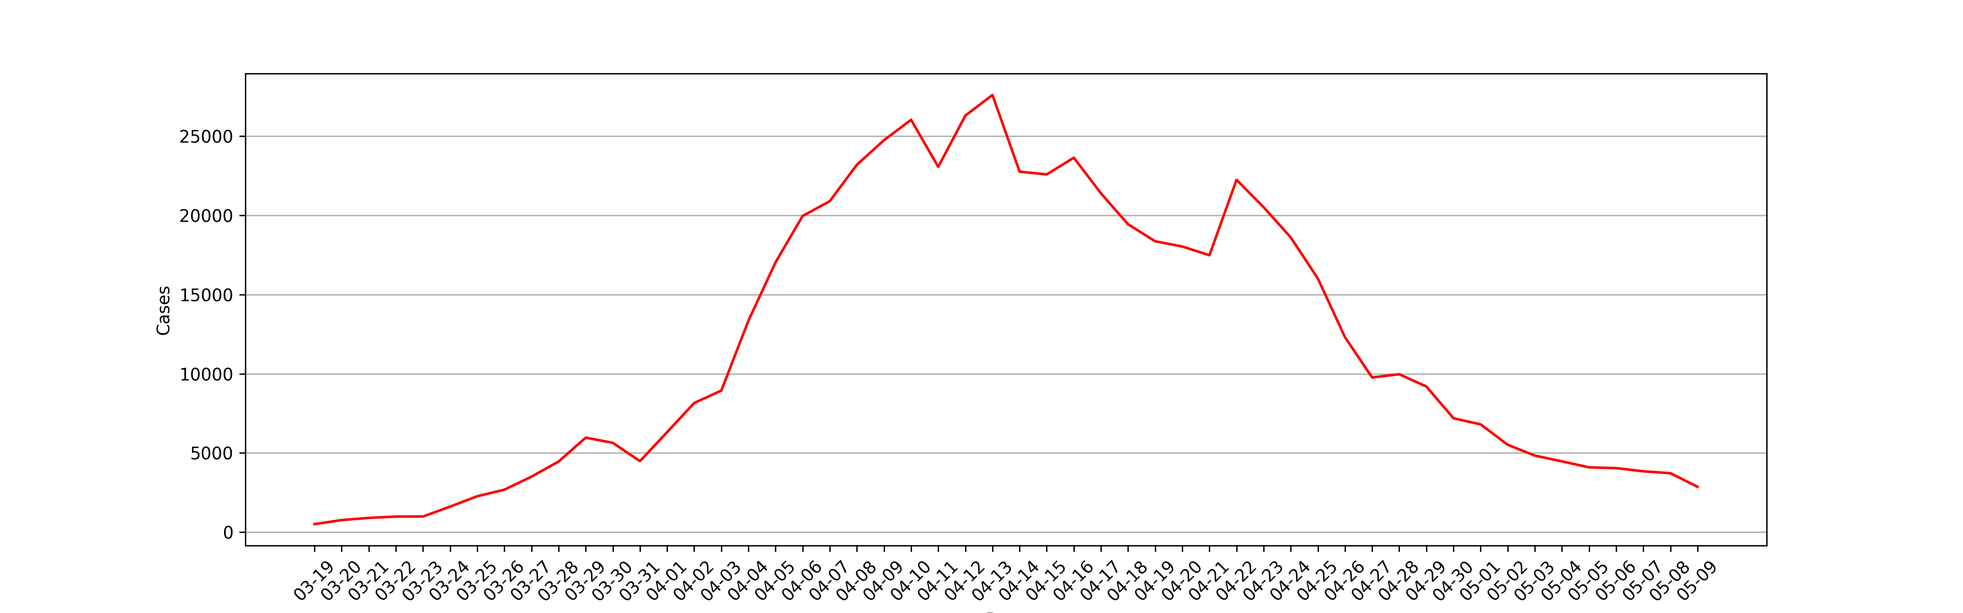
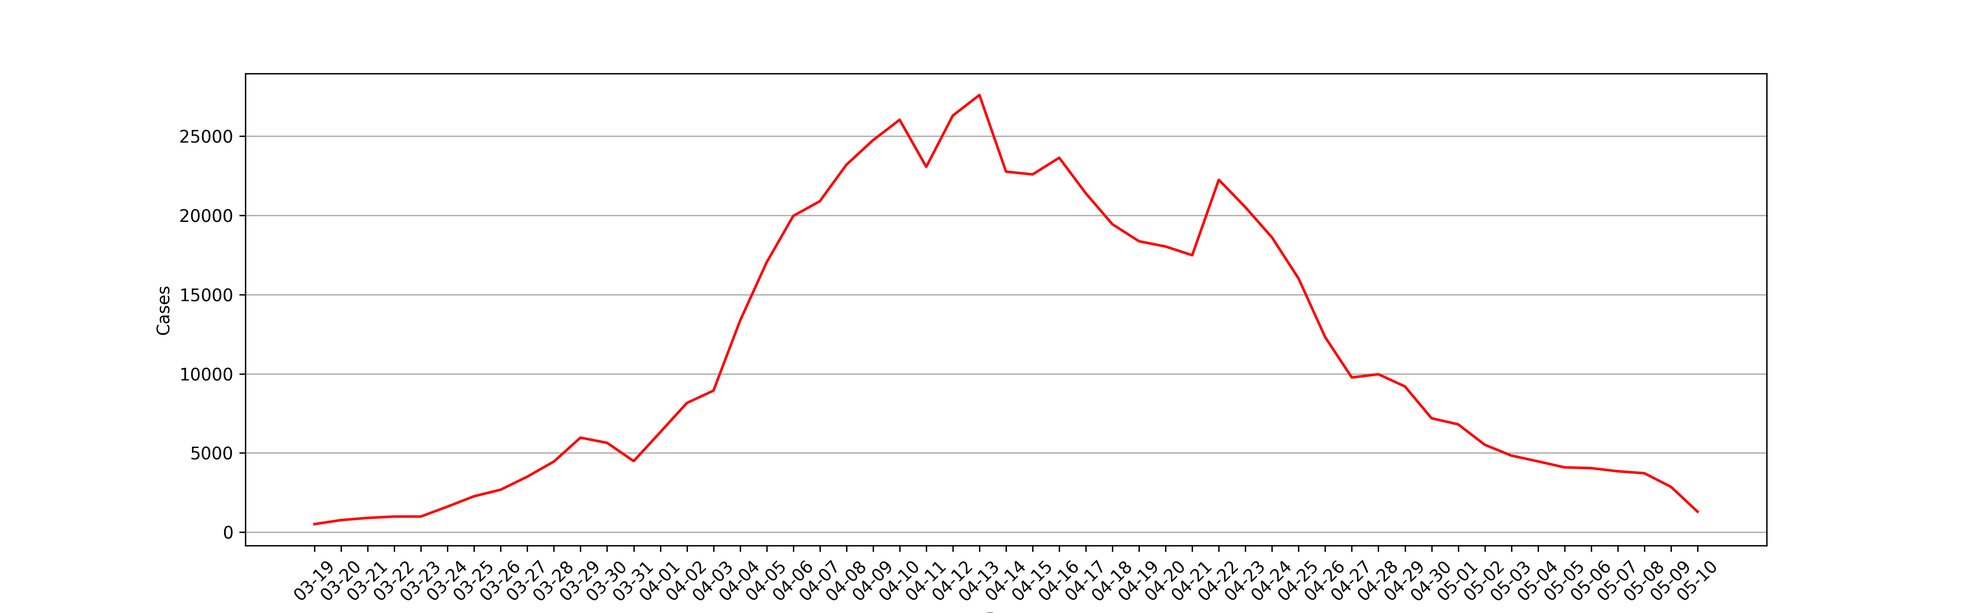
Commit by bot @ 05/11/22 11:15:01

diff --git a/archived_html/15db247133abb2464769780a3f70e335.html b/archived_html/15db247133abb2464769780a3f70e335.html
@@ -1,0 +1,151 @@
+<!DOCTYPE html>
+<html lang="zh-Hans">
+<head>
+    <meta charset="utf-8">
+    <meta http-equiv="Content-Security-Policy" content="upgrade-insecure-requests">
+    <meta name="viewport" content="width=device-width, initial-scale=1, maximum-scale=1, user-scalable=no">
+    <meta http-equiv="X-UA-Compatible" content="IE=Edge,chrome=1">
+    <meta http-equiv="Cache-Control" content="no-siteapp" />
+    <meta name="renderer" content="webkit">
+    <meta name="apple-mobile-web-app-capable" content="yes" />
+    <meta name="apple-mobile-web-app-status-bar-style" content="black" />
+    <title>上海2022年5月10日，新增本土新冠肺炎确诊病例228例 新增本土无症状感染者1259例 新增境外输入性新冠肺炎确诊病例1例 新增境外输入性无症状感染者1例__上海市卫生健康委员会</title>
+    <meta name="ColumnDescription" content="新闻发布"><!-- * -->
+    <meta name="ColumnKeywords" content="新闻发布"><!-- * -->
+    <!--<meta name="ColumnType" content=""> * -->
+    <meta name="ColumnName" content="新闻发布"><!-- * -->
+    <meta name="ArticleTitle" content="上海2022年5月10日，新增本土新冠肺炎确诊病例228例 新增本土无症状感染者1259例 新增境外输入性新冠肺炎确诊病例1例 新增境外输入性无症状感染者1例"><!-- * -->
+    <meta name="PubDate" content="2022-05-11"><!-- * -->
+    <meta name="ContentSource" content="上海市卫生健康委员会"><!-- * -->
+    <meta name="Author" content="上海市卫生健康委员会">
+    <meta name="Description" content="" />
+    <meta name="applicable-device" content="pc;mobile">
+    <meta name="location" content="北纬N31°11′51.89″ 东经E121°30′5.42″">
+    <!-- min CSS -->
+    <link rel="stylesheet" href="/assets/css/ETUI/ETUI3.min.css">
+    <!-- Custom CSS -->
+    <link rel="stylesheet" href="/assets/plugin/owl/owl.carousel.css">
+    <link rel="stylesheet" href="/assets/css/style.css">
+    <link rel="stylesheet" href="/assets/css/responsive.css">
+    <link rel="stylesheet" href="/assets/css/ETUI/ETUI3.Utility.css">
+    <!-- icons -->
+    <link rel="shortcut icon" href="/assets/img/ico/favicon.png">
+    <!-- 无障碍工具条 -->
+   <!-- <link rel="stylesheet" href="http://www.shanghai.gov.cn/jhelper_V2.0/jhelper_tool_style.css">
+    <script src="http://www.shanghai.gov.cn/jhelper_V2.0/wsj/jhelper_config.js" charset="gb2312"></script>
+    <noscript>不能读取工具条配置</noscript>
+    <script src="http://www.shanghai.gov.cn/jhelper_V2.0/jhelper_2.0.js" charset="gb2312"></script>
+    <noscript>不能读取工具条</noscript> 
+     -->
+    <script type="text/javascript">
+        function onsubmmit(pageIndex){
+            $("#pageIndex").val(1);
+            $("#searchField").val("0");
+            $("#timeScope").val("0");
+            $("#cmsSearchId").val("0");
+            $("#searchForm").submit();
+        }
+        function onselsubmmit(){
+            $("#pageIndex").val(1);
+            $("#searchForm").submit();
+        }
+        function psubmmit(pageIndex){
+            $("#pageIndex").val(pageIndex);
+            $("#searchForm").submit();
+        }
+        // 栏目
+        function chsubmmit(searchChId){
+            $("#pageIndex").val(1);
+            $("#searchField").val("0");
+            $("#timeScope").val("0");
+            $("#cmsSearchId").val(searchChId);
+            $("#searchForm").submit();
+        }
+    </script> 
+    <!-- 无障碍工具条 -->
+</head>
+<body>
+    <div id="accessNull"></div>
+    <div id="container">
+        <div class="channelinfo hidden"></div>
+        <script src="/assets/js/header.js"></script>
+        <div class="main" id="main">
+            <script src="/assets/js/jiansuo.js"></script>
+            <div class="main-container margin-top-15">
+                <div class="container ">
+                    <div class="relitive">
+                        <ol class="breadcrumb">
+                           <span>您现在所在的位置：</span>
+                            <li><a href="/index.html">首页</a></li>
+                            <li class="active">新闻中心</li>
+                           
+                            <li class="active">新闻发布</li>
+                           
+                        </ol>
+                        <div class="date-se">
+                            <i class="iconfont">&#xe60b;</i> <span id="time"></span>
+                        </div>
+                    </div>
+
+                    <div class="Article">
+                        <h2 id="ivs_title" class="Article-title">上海2022年5月10日，新增本土新冠肺炎确诊病例228例 新增本土无症状感染者1259例 新增境外输入性新冠肺炎确诊病例1例 新增境外输入性无症状感染者1例</br>
+                         <h2 class="Article-title">
+                            <small id="ivs_date" class="Article-time">( 2022-05-11)</small>
+                        </h2>
+                        <div id="ivs_player" style="text-align:center;"></div>
+                        <div id="ivs_content" class="Article_content">
+                           
+                                 <p style="font-size: medium;white-space: normal;margin-top: 10px;text-indent: 40px"><span style="font-size: 20px;font-family: 仿宋_GB2312">市卫健委今早（11日）通报：2022年5月10日0—24时，新增本土新冠肺炎确诊病例228例和无症状感染者1259例，其中198例确诊病例为既往无症状感染者转归，30例确诊病例和1259例无症状感染者在隔离管控中发现。新增境外输入性新冠肺炎确诊病例1例和无症状感染者1例，均在闭环管控中发现。</span></p><p style="font-size: medium;white-space: normal;margin-top: 10px;text-indent: 40px"><span style="font-size: 20px;font-family: 仿宋_GB2312">2022</span><span style="font-size: 20px;font-family: 仿宋_GB2312">年5月10日0—24时，新增本土新冠肺炎确诊病例228例，含198例由既往无症状感染者转为确诊病例。新增治愈出院607例。</span></p><p style="font-size: medium;white-space: normal;margin-top: 10px;text-indent: 40px"><strong><span style="font-size: 20px;font-family: 黑体">病例1—病例3</span></strong><span style="font-size: 20px;font-family: 仿宋_GB2312">，居住于浦东新区，</span><strong><span style="font-size: 20px;font-family: 黑体">病例4—病例6</span></strong><span style="font-size: 20px;font-family: 仿宋_GB2312">，居住于黄浦区，</span><strong><span style="font-size: 20px;font-family: 黑体">病例7、病例8</span></strong><span style="font-size: 20px;font-family: 仿宋_GB2312">，居住于徐汇区，</span><strong><span style="font-size: 20px;font-family: 黑体">病例9—病例13</span></strong><span style="font-size: 20px;font-family: 仿宋_GB2312">，居住于静安区，</span><strong><span style="font-size: 20px;font-family: 黑体">病例14—病例25</span></strong><span style="font-size: 20px;font-family: 仿宋_GB2312">，居住于虹口区，</span><strong><span style="font-size: 20px;font-family: 黑体">病例26</span></strong><span style="font-size: 20px;font-family: 仿宋_GB2312">，居住于杨浦区，</span><strong><span style="font-size: 20px;font-family: 黑体">病例27</span></strong><span style="font-size: 20px;font-family: 仿宋_GB2312">，居住于宝山区，</span><strong><span style="font-size: 20px;font-family: 黑体">病例28</span></strong><span style="font-size: 20px;font-family: 仿宋_GB2312">，居住于嘉定区，</span><strong><span style="font-size: 20px;font-family: 黑体">病例29、病例30</span></strong><span style="font-size: 20px;font-family: 仿宋_GB2312">，居住于松江区，均为本市闭环隔离管控人员，其间新冠病毒核酸检测结果异常，经疾控中心复核结果为阳性。经市级专家会诊，综合流行病学史、临床症状、实验室检测和影像学检查结果等，诊断为确诊病例。</span></p><p style="font-size: medium;white-space: normal;margin-top: 10px;text-indent: 40px"><strong><span style="font-size: 20px;font-family: 黑体">病例31—病例43</span></strong><span style="font-size: 20px;font-family: 仿宋_GB2312">，居住于浦东新区，</span><strong><span style="font-size: 20px;font-family: 黑体">病例44—病例59</span></strong><span style="font-size: 20px;font-family: 仿宋_GB2312">，居住于黄浦区，</span><strong><span style="font-size: 20px;font-family: 黑体">病例60—病例80</span></strong><span style="font-size: 20px;font-family: 仿宋_GB2312">，居住于徐汇区，</span><strong><span style="font-size: 20px;font-family: 黑体">病例81、病例82</span></strong><span style="font-size: 20px;font-family: 仿宋_GB2312">，居住于长宁区，</span><strong><span style="font-size: 20px;font-family: 黑体">病例83—病例105</span></strong><span style="font-size: 20px;font-family: 仿宋_GB2312">，居住于静安区，</span><strong><span style="font-size: 20px;font-family: 黑体">病例106—病例110</span></strong><span style="font-size: 20px;font-family: 仿宋_GB2312">，居住于普陀区，</span><strong><span style="font-size: 20px;font-family: 黑体">病例111—病例146</span></strong><span style="font-size: 20px;font-family: 仿宋_GB2312">，居住于虹口区，</span><strong><span style="font-size: 20px;font-family: 黑体">病例147—病例177</span></strong><span style="font-size: 20px;font-family: 仿宋_GB2312">，居住于杨浦区，</span><strong><span style="font-size: 20px;font-family: 黑体">病例178—病例184</span></strong><span style="font-size: 20px;font-family: 仿宋_GB2312">，居住于闵行区，</span><strong><span style="font-size: 20px;font-family: 黑体">病例185—病例194</span></strong><span style="font-size: 20px;font-family: 仿宋_GB2312">，居住于宝山区，</span><strong><span style="font-size: 20px;font-family: 黑体">病例195—病例213</span></strong><span style="font-size: 20px;font-family: 仿宋_GB2312">，居住于嘉定区，</span><strong><span style="font-size: 20px;font-family: 黑体">病例214—病例217</span></strong><span style="font-size: 20px;font-family: 仿宋_GB2312">，居住于松江区，</span><strong><span style="font-size: 20px;font-family: 黑体">病例218—病例228</span></strong><span style="font-size: 20px;font-family: 仿宋_GB2312">，居住于青浦区，</span><span style="font-size: 20px;font-family: 仿宋_GB2312">为此前报告的本土无症状感染者。</span><span style="font-size: 20px;font-family: 仿宋_GB2312">经市级专家会诊，综合流行病学史、临床症状、实验室检测和影像学检查结果等，诊断为确诊病例。</span></p><p style="font-size: medium;white-space: normal;margin-top: 10px;text-indent: 40px"><span style="font-size: 20px;font-family: 仿宋_GB2312">2022</span><span style="font-size: 20px;font-family: 仿宋_GB2312">年5月10日0—24时，新增本土死亡7例。平均年龄87.3岁，最小年龄75岁，最大年龄98岁。7位患者合并有严重的多脏器基础疾病，包括冠心病、急慢性心功能不全、严重心律失常、高血压3级（极高危）、脑梗死及后遗症、阿尔兹海默症、糖尿病、急性肝功能衰竭、急慢性肾功能不全等。患者入院后，原发疾病加重，经抢救无效死亡。死亡的直接原因均为基础疾病。</span></p><p style="font-size: medium;white-space: normal;margin-top: 10px;text-indent: 40px"><span style="font-size: 20px;font-family: 仿宋_GB2312">2022</span><span style="font-size: 20px;font-family: 仿宋_GB2312">年5月10日0—24时，新增本土无症状感染者1259例。</span></p><p style="font-size: medium;white-space: normal;margin-top: 10px;text-indent: 40px"><strong><span style="font-size: 20px;font-family: 黑体">无症状感染者1—无症状感染者247</span></strong><span style="font-size: 20px;font-family: 仿宋_GB2312">，居住于浦东新区，</span><strong><span style="font-size: 20px;font-family: 黑体">无症状感染者248—无症状感染者492</span></strong><span style="font-size: 20px;font-family: 仿宋_GB2312">，居住于黄浦区，</span><strong><span style="font-size: 20px;font-family: 黑体">无症状感染者493—无症状感染者552</span></strong><span style="font-size: 20px;font-family: 仿宋_GB2312">，居住于徐汇区，</span><strong><span style="font-size: 20px;font-family: 黑体">无症状感染者553—无症状感染者566</span></strong><span style="font-size: 20px;font-family: 仿宋_GB2312">，居住于长宁区，</span><strong><span style="font-size: 20px;font-family: 黑体">无症状感染者567—无症状感染者757</span></strong><span style="font-size: 20px;font-family: 仿宋_GB2312">，居住于静安区，</span><strong><span style="font-size: 20px;font-family: 黑体">无症状感染者758—无症状感染者782</span></strong><span style="font-size: 20px;font-family: 仿宋_GB2312">，居住于普陀区，</span><strong><span style="font-size: 20px;font-family: 黑体">无症状感染者783—无症状感染者870</span></strong><span style="font-size: 20px;font-family: 仿宋_GB2312">，居住于虹口区，</span><strong><span style="font-size: 20px;font-family: 黑体">无症状感染者871—无症状感染者1005</span></strong><span style="font-size: 20px;font-family: 仿宋_GB2312">，居住于杨浦区，</span><strong><span style="font-size: 20px;font-family: 黑体">无症状感染者1006—无症状感染者1077</span></strong><span style="font-size: 20px;font-family: 仿宋_GB2312">，居住于闵行区，</span><strong><span style="font-size: 20px;font-family: 黑体">无症状感染者1078—无症状感染者1208</span></strong><span style="font-size: 20px;font-family: 仿宋_GB2312">，居住于宝山区，</span><strong><span style="font-size: 20px;font-family: 黑体">无症状感染者1209—无症状感染者1222</span></strong><span style="font-size: 20px;font-family: 仿宋_GB2312">，居住于嘉定区，</span><strong><span style="font-size: 20px;font-family: 黑体">无症状感染者1223—无症状感染者1235</span></strong><span style="font-size: 20px;font-family: 仿宋_GB2312">，居住于松江区，</span><strong><span style="font-size: 20px;font-family: 黑体">无症状感染者1236—无症状感染者1251</span></strong><span style="font-size: 20px;font-family: 仿宋_GB2312">，居住于青浦区，</span><strong><span style="font-size: 20px;font-family: 黑体">无症状感染者1252—无症状感染者1259</span></strong><span style="font-size: 20px;font-family: 仿宋_GB2312">，居住于崇明区，</span><span style="font-size: 20px;font-family: 仿宋_GB2312">均为本市闭环隔离管控人员，其间新冠病毒核酸检测结果异常，经疾控中心复核结果为阳性，诊断为无症状感染者。</span></p><p style="font-size: medium;white-space: normal;text-indent: 40px"><span style="font-size: 20px;font-family: 仿宋_GB2312">2022</span><span style="font-size: 20px;font-family: 仿宋_GB2312">年5月10日0—24时，</span><span style="font-size: 20px;font-family: 仿宋_GB2312">新增境外输入性新冠肺炎确诊病例</span><span style="font-size: 20px;font-family: 仿宋_GB2312">1</span><span style="font-size: 20px;font-family: 仿宋_GB2312">例</span><span style="font-size: 20px;font-family: 仿宋_GB2312">。</span></p><p style="font-size: medium;white-space: normal;text-indent: 40px"><strong><span style="font-size: 20px;font-family: 黑体">该病例</span></strong><span style="font-size: 20px;font-family: 仿宋_GB2312">为中国籍，在美国留学，自美国出发，于2022年5月8日抵达上海浦东国际机场，入关后即被集中隔离观察，其间出现症状。综合流行病学史、临床症状、实验室检测和影像学检查结果等，诊断为确诊病例。</span></p><p style="font-size: medium;white-space: normal;text-indent: 40px"><span style="font-size: 20px;font-family: 仿宋_GB2312">该境外输入性确诊病例已转至定点医疗机构救治，已追踪同航班密切接触者31人，均已落实集中隔离观察。</span></p><p style="font-size: medium;white-space: normal;text-indent: 40px"><span style="font-size: 20px;font-family: 仿宋_GB2312">2022</span><span style="font-size: 20px;font-family: 仿宋_GB2312">年5月10日0—24时，新增境外输入性无症状感染者1例。</span></p><p style="font-size: medium;white-space: normal;text-indent: 40px"><strong><span style="font-size: 20px;font-family: 黑体">该无症状感染者</span></strong><span style="font-size: 20px;font-family: 仿宋_GB2312">为中国籍，在阿联酋工作，自阿联酋出发，于2022年5月2日抵达上海浦东国际机场，入关后即被集中隔离观察，其间例行核酸检测异常。经排查，区疾控中心新冠病毒核酸检测结果为阳性。综合流行病学史、临床症状、实验室检测和影像学检查结果等，诊断为无症状感染者。</span></p><p style="font-size: medium;white-space: normal;text-indent: 40px"><span style="font-size: 20px;font-family: 仿宋_GB2312">该境外输入性无症状感染者已转至定点医疗机构医学观察，同航班密切接触者此前均已落实集中隔离观察。</span></p><p style="font-size: medium;white-space: normal;text-indent: 40px"><span style="font-size: 20px;font-family: 仿宋_GB2312">2022</span><span style="font-size: 20px;font-family: 仿宋_GB2312">年5月10日0—24时，解除医学观察本土无症状感染者8094例。</span></p><p style="font-size: medium;white-space: normal;margin-top: 10px;text-indent: 40px;vertical-align: baseline"><span style="font-size: 20px;font-family: 仿宋_GB2312">2022</span><span style="font-size: 20px;font-family: 仿宋_GB2312">年2月26日0时至2022年5月10日24时，累计本土确诊56383例，治愈出院50197例，在院治疗5626例（其中重型379例，危重型71例），死亡560例。现有待排查的疑似病例0例。</span></p><p style="font-size: medium;white-space: normal;margin-top: 10px;text-indent: 40px;vertical-align: baseline"><span style="font-size: 20px;font-family: 仿宋_GB2312">截至2022年5月10日24时，累计境外输入性确诊病例4595例，出院4580例，在院治疗15例。现有待排查的疑似病例0例。</span></p><p style="font-size: medium;white-space: normal;margin-top: 10px;text-indent: 40px;vertical-align: baseline"><span style="font-size: 20px;font-family: 仿宋_GB2312">&nbsp;</span></p><table align="center" cellspacing="0" cellpadding="0" width="544"><tbody><tr style="height: 24px" class="firstRow"><td width="379" colspan="2" style="border-width: 1px; border-color: windowtext; padding: 0px 7px; border-style: solid;" height="24"><p style="text-align: center;vertical-align: baseline"><strong><span style="font-size: 19px;font-family: 仿宋_GB2312">区域</span></strong></p></td><td width="165" style="border-width: 1px; border-top-color: windowtext; border-right-color: windowtext; border-bottom-color: windowtext; border-style: solid; border-left-color: initial; padding: 0px 7px;" height="24"><p style="text-align: center;vertical-align: baseline"><strong><span style="font-size: 19px;font-family: 仿宋_GB2312">在院治疗确诊病例</span></strong></p></td></tr><tr style="height: 42px"><td width="213" rowspan="7" style="border-width: 1px; border-right-color: windowtext; border-bottom-color: windowtext; border-left-color: windowtext; border-style: solid; border-top-color: initial; padding: 0px 7px;" height="42"><p style="text-align: center;vertical-align: baseline"><span style="font-size: 19px;font-family: 仿宋_GB2312">境外输入人员</span></p><p style="text-align: center;vertical-align: baseline"><span style="font-size: 19px;font-family: 仿宋_GB2312">（按输入地分）</span></p></td><td width="165" valign="top" style="border-width: 1px; border-style: solid; border-top-color: initial; border-left-color: initial; border-bottom-color: windowtext; border-right-color: windowtext; padding: 0px 7px;" height="42"><p style="text-align: center;vertical-align: middle"><span style="font-size: 19px;font-family: 仿宋_GB2312">加拿大</span></p></td><td width="165" valign="top" style="border-width: 1px; border-style: solid; border-top-color: initial; border-left-color: initial; border-bottom-color: windowtext; border-right-color: windowtext; padding: 0px 7px;" height="42"><p style="text-align: center;vertical-align: middle"><span style="font-size: 19px;font-family: 仿宋_GB2312">7</span></p></td></tr><tr style="height: 42px"><td width="165" valign="top" style="border-width: 1px; border-style: solid; border-top-color: initial; border-left-color: initial; border-bottom-color: windowtext; border-right-color: windowtext; padding: 0px 7px;" height="42"><p style="text-align: center;vertical-align: middle"><span style="font-size: 19px;font-family: 仿宋_GB2312">美国</span></p></td><td width="165" valign="top" style="border-width: 1px; border-style: solid; border-top-color: initial; border-left-color: initial; border-bottom-color: windowtext; border-right-color: windowtext; padding: 0px 7px;" height="42"><p style="text-align: center;vertical-align: middle"><span style="font-size: 19px;font-family: 仿宋_GB2312">2</span></p></td></tr><tr style="height: 42px"><td width="165" valign="top" style="border-width: 1px; border-style: solid; border-top-color: initial; border-left-color: initial; border-bottom-color: windowtext; border-right-color: windowtext; padding: 0px 7px;" height="42"><p style="text-align: center;vertical-align: middle"><span style="font-size: 19px;font-family: 仿宋_GB2312">英国</span></p></td><td width="165" valign="top" style="border-width: 1px; border-style: solid; border-top-color: initial; border-left-color: initial; border-bottom-color: windowtext; border-right-color: windowtext; padding: 0px 7px;" height="42"><p style="text-align: center;vertical-align: middle"><span style="font-size: 19px;font-family: 仿宋_GB2312">2</span></p></td></tr><tr style="height: 33px"><td width="165" valign="top" style="border-width: 1px; border-style: solid; border-top-color: initial; border-left-color: initial; border-bottom-color: windowtext; border-right-color: windowtext; padding: 0px 7px;" height="33"><p style="text-align: center;vertical-align: middle"><span style="font-size: 19px;font-family: 仿宋_GB2312">科特迪瓦</span></p></td><td width="165" valign="top" style="border-width: 1px; border-style: solid; border-top-color: initial; border-left-color: initial; border-bottom-color: windowtext; border-right-color: windowtext; padding: 0px 7px;" height="33"><p style="text-align: center;vertical-align: middle"><span style="font-size: 19px;font-family: 仿宋_GB2312">1</span></p></td></tr><tr style="height: 33px"><td width="165" valign="top" style="border-width: 1px; border-style: solid; border-top-color: initial; border-left-color: initial; border-bottom-color: windowtext; border-right-color: windowtext; padding: 0px 7px;" height="33"><p style="text-align: center;vertical-align: middle"><span style="font-size: 19px;font-family: 仿宋_GB2312">法国</span></p></td><td width="165" valign="top" style="border-width: 1px; border-style: solid; border-top-color: initial; border-left-color: initial; border-bottom-color: windowtext; border-right-color: windowtext; padding: 0px 7px;" height="33"><p style="text-align: center;vertical-align: middle"><span style="font-size: 19px;font-family: 仿宋_GB2312">1</span></p></td></tr><tr style="height: 33px"><td width="165" valign="top" style="border-width: 1px; border-style: solid; border-top-color: initial; border-left-color: initial; border-bottom-color: windowtext; border-right-color: windowtext; padding: 0px 7px;" height="33"><p style="text-align: center;vertical-align: middle"><span style="font-size: 19px;font-family: 仿宋_GB2312">乌干达</span></p></td><td width="165" valign="top" style="border-width: 1px; border-style: solid; border-top-color: initial; border-left-color: initial; border-bottom-color: windowtext; border-right-color: windowtext; padding: 0px 7px;" height="33"><p style="text-align: center;vertical-align: middle"><span style="font-size: 19px;font-family: 仿宋_GB2312">1</span></p></td></tr><tr style="height: 33px"><td width="165" valign="top" style="border-width: 1px; border-style: solid; border-top-color: initial; border-left-color: initial; border-bottom-color: windowtext; border-right-color: windowtext; padding: 0px 7px;" height="33"><p style="text-align: center;vertical-align: middle"><span style="font-size: 19px;font-family: 仿宋_GB2312">德国</span></p></td><td width="165" valign="top" style="border-width: 1px; border-style: solid; border-top-color: initial; border-left-color: initial; border-bottom-color: windowtext; border-right-color: windowtext; padding: 0px 7px;" height="33"><p style="text-align: center;vertical-align: middle"><span style="font-size: 19px;font-family: 仿宋_GB2312">1</span></p></td></tr><tr style="height: 33px"><td width="213" rowspan="16" style="border-width: 1px; border-right-color: windowtext; border-bottom-color: windowtext; border-left-color: windowtext; border-style: solid; border-top-color: initial; padding: 0px 7px;" height="33"><p style="text-indent: 19px;vertical-align: baseline"><span style="font-size: 19px;font-family: 仿宋_GB2312">本市居住或工作地</span></p></td><td width="165" style="border-width: 1px; border-style: solid; border-top-color: initial; border-left-color: initial; border-bottom-color: windowtext; border-right-color: windowtext; padding: 0px 7px;" height="33"><p style="text-align: center;vertical-align: middle"><span style="font-size: 19px;font-family: 仿宋_GB2312">浦东</span></p></td><td width="165" style="border-width: 1px; border-style: solid; border-top-color: initial; border-left-color: initial; border-bottom-color: windowtext; border-right-color: windowtext; padding: 0px 7px;" height="33"><p style="text-align: center"><span style="font-size: 19px;font-family: 仿宋_GB2312">689</span></p></td></tr><tr style="height: 33px"><td width="165" style="border-width: 1px; border-style: solid; border-top-color: initial; border-left-color: initial; border-bottom-color: windowtext; border-right-color: windowtext; padding: 0px 7px;" height="33"><p style="text-align: center;vertical-align: middle"><span style="font-size: 19px;font-family: 仿宋_GB2312">黄浦</span></p></td><td width="165" style="border-width: 1px; border-style: solid; border-top-color: initial; border-left-color: initial; border-bottom-color: windowtext; border-right-color: windowtext; padding: 0px 7px;" height="33"><p style="text-align: center"><span style="font-size: 19px;font-family: 仿宋_GB2312">820</span></p></td></tr><tr style="height: 33px"><td width="165" style="border-width: 1px; border-style: solid; border-top-color: initial; border-left-color: initial; border-bottom-color: windowtext; border-right-color: windowtext; padding: 0px 7px;" height="33"><p style="text-align: center;vertical-align: middle"><span style="font-size: 19px;font-family: 仿宋_GB2312">徐汇</span></p></td><td width="165" style="border-width: 1px; border-style: solid; border-top-color: initial; border-left-color: initial; border-bottom-color: windowtext; border-right-color: windowtext; padding: 0px 7px;" height="33"><p style="text-align: center"><span style="font-size: 19px;font-family: 仿宋_GB2312">712</span></p></td></tr><tr style="height: 33px"><td width="165" style="border-width: 1px; border-style: solid; border-top-color: initial; border-left-color: initial; border-bottom-color: windowtext; border-right-color: windowtext; padding: 0px 7px;" height="33"><p style="text-align: center;vertical-align: middle"><span style="font-size: 19px;font-family: 仿宋_GB2312">长宁</span></p></td><td width="165" style="border-width: 1px; border-style: solid; border-top-color: initial; border-left-color: initial; border-bottom-color: windowtext; border-right-color: windowtext; padding: 0px 7px;" height="33"><p style="text-align: center"><span style="font-size: 19px;font-family: 仿宋_GB2312">362</span></p></td></tr><tr style="height: 33px"><td width="165" style="border-width: 1px; border-style: solid; border-top-color: initial; border-left-color: initial; border-bottom-color: windowtext; border-right-color: windowtext; padding: 0px 7px;" height="33"><p style="text-align: center;vertical-align: middle"><span style="font-size: 19px;font-family: 仿宋_GB2312">静安</span></p></td><td width="165" style="border-width: 1px; border-style: solid; border-top-color: initial; border-left-color: initial; border-bottom-color: windowtext; border-right-color: windowtext; padding: 0px 7px;" height="33"><p style="text-align: center"><span style="font-size: 19px;font-family: 仿宋_GB2312">677</span></p></td></tr><tr style="height: 33px"><td width="165" style="border-width: 1px; border-style: solid; border-top-color: initial; border-left-color: initial; border-bottom-color: windowtext; border-right-color: windowtext; padding: 0px 7px;" height="33"><p style="text-align: center;vertical-align: middle"><span style="font-size: 19px;font-family: 仿宋_GB2312">普陀</span></p></td><td width="165" style="border-width: 1px; border-style: solid; border-top-color: initial; border-left-color: initial; border-bottom-color: windowtext; border-right-color: windowtext; padding: 0px 7px;" height="33"><p style="text-align: center"><span style="font-size: 19px;font-family: 仿宋_GB2312">381</span></p></td></tr><tr style="height: 33px"><td width="165" style="border-width: 1px; border-style: solid; border-top-color: initial; border-left-color: initial; border-bottom-color: windowtext; border-right-color: windowtext; padding: 0px 7px;" height="33"><p style="text-align: center;vertical-align: middle"><span style="font-size: 19px;font-family: 仿宋_GB2312">虹口</span></p></td><td width="165" style="border-width: 1px; border-style: solid; border-top-color: initial; border-left-color: initial; border-bottom-color: windowtext; border-right-color: windowtext; padding: 0px 7px;" height="33"><p style="text-align: center"><span style="font-size: 19px;font-family: 仿宋_GB2312">647</span></p></td></tr><tr style="height: 33px"><td width="165" style="border-width: 1px; border-style: solid; border-top-color: initial; border-left-color: initial; border-bottom-color: windowtext; border-right-color: windowtext; padding: 0px 7px;" height="33"><p style="text-align: center;vertical-align: middle"><span style="font-size: 19px;font-family: 仿宋_GB2312">杨浦</span></p></td><td width="165" style="border-width: 1px; border-style: solid; border-top-color: initial; border-left-color: initial; border-bottom-color: windowtext; border-right-color: windowtext; padding: 0px 7px;" height="33"><p style="text-align: center"><span style="font-size: 19px;font-family: 仿宋_GB2312">524</span></p></td></tr><tr style="height: 33px"><td width="165" style="border-width: 1px; border-style: solid; border-top-color: initial; border-left-color: initial; border-bottom-color: windowtext; border-right-color: windowtext; padding: 0px 7px;" height="33"><p style="text-align: center;vertical-align: middle"><span style="font-size: 19px;font-family: 仿宋_GB2312">闵行</span></p></td><td width="165" style="border-width: 1px; border-style: solid; border-top-color: initial; border-left-color: initial; border-bottom-color: windowtext; border-right-color: windowtext; padding: 0px 7px;" height="33"><p style="text-align: center"><span style="font-size: 19px;font-family: 仿宋_GB2312">348</span></p></td></tr><tr style="height: 33px"><td width="165" style="border-width: 1px; border-style: solid; border-top-color: initial; border-left-color: initial; border-bottom-color: windowtext; border-right-color: windowtext; padding: 0px 7px;" height="33"><p style="text-align: center;vertical-align: middle"><span style="font-size: 19px;font-family: 仿宋_GB2312">宝山</span></p></td><td width="165" style="border-width: 1px; border-style: solid; border-top-color: initial; border-left-color: initial; border-bottom-color: windowtext; border-right-color: windowtext; padding: 0px 7px;" height="33"><p style="text-align: center"><span style="font-size: 19px;font-family: 仿宋_GB2312">213</span></p></td></tr><tr style="height: 33px"><td width="165" style="border-width: 1px; border-style: solid; border-top-color: initial; border-left-color: initial; border-bottom-color: windowtext; border-right-color: windowtext; padding: 0px 7px;" height="33"><p style="text-align: center;vertical-align: middle"><span style="font-size: 19px;font-family: 仿宋_GB2312">嘉定</span></p></td><td width="165" style="border-width: 1px; border-style: solid; border-top-color: initial; border-left-color: initial; border-bottom-color: windowtext; border-right-color: windowtext; padding: 0px 7px;" height="33"><p style="text-align: center"><span style="font-size: 19px;font-family: 仿宋_GB2312">33</span></p></td></tr><tr style="height: 33px"><td width="165" style="border-width: 1px; border-style: solid; border-top-color: initial; border-left-color: initial; border-bottom-color: windowtext; border-right-color: windowtext; padding: 0px 7px;" height="33"><p style="text-align: center;vertical-align: middle"><span style="font-size: 19px;font-family: 仿宋_GB2312">金山</span></p></td><td width="165" style="border-width: 1px; border-style: solid; border-top-color: initial; border-left-color: initial; border-bottom-color: windowtext; border-right-color: windowtext; padding: 0px 7px;" height="33"><p style="text-align: center"><span style="font-size: 19px;font-family: 仿宋_GB2312">3</span></p></td></tr><tr style="height: 33px"><td width="165" style="border-width: 1px; border-style: solid; border-top-color: initial; border-left-color: initial; border-bottom-color: windowtext; border-right-color: windowtext; padding: 0px 7px;" height="33"><p style="text-align: center;vertical-align: middle"><span style="font-size: 19px;font-family: 仿宋_GB2312">松江</span></p></td><td width="165" style="border-width: 1px; border-style: solid; border-top-color: initial; border-left-color: initial; border-bottom-color: windowtext; border-right-color: windowtext; padding: 0px 7px;" height="33"><p style="text-align: center"><span style="font-size: 19px;font-family: 仿宋_GB2312">16</span></p></td></tr><tr style="height: 33px"><td width="165" style="border-width: 1px; border-style: solid; border-top-color: initial; border-left-color: initial; border-bottom-color: windowtext; border-right-color: windowtext; padding: 0px 7px;" height="33"><p style="text-align: center;vertical-align: middle"><span style="font-size: 19px;font-family: 仿宋_GB2312">青浦</span></p></td><td width="165" style="border-width: 1px; border-style: solid; border-top-color: initial; border-left-color: initial; border-bottom-color: windowtext; border-right-color: windowtext; padding: 0px 7px;" height="33"><p style="text-align: center"><span style="font-size: 19px;font-family: 仿宋_GB2312">13</span></p></td></tr><tr style="height: 33px"><td width="165" style="border-width: 1px; border-style: solid; border-top-color: initial; border-left-color: initial; border-bottom-color: windowtext; border-right-color: windowtext; padding: 0px 7px;" height="33"><p style="text-align: center;vertical-align: middle"><span style="font-size: 19px;font-family: 仿宋_GB2312">奉贤</span></p></td><td width="165" style="border-width: 1px; border-style: solid; border-top-color: initial; border-left-color: initial; border-bottom-color: windowtext; border-right-color: windowtext; padding: 0px 7px;" height="33"><p style="text-align: center"><span style="font-size: 19px;font-family: 仿宋_GB2312">70</span></p></td></tr><tr style="height: 33px"><td width="165" style="border-width: 1px; border-style: solid; border-top-color: initial; border-left-color: initial; border-bottom-color: windowtext; border-right-color: windowtext; padding: 0px 7px;" height="33"><p style="text-align: center;vertical-align: middle"><span style="font-size: 19px;font-family: 仿宋_GB2312">崇明</span></p></td><td width="165" style="border-width: 1px; border-style: solid; border-top-color: initial; border-left-color: initial; border-bottom-color: windowtext; border-right-color: windowtext; padding: 0px 7px;" height="33"><p style="text-align: center"><span style="font-size: 19px;font-family: 仿宋_GB2312">118</span></p></td></tr><tr style="height: 33px"><td width="379" colspan="2" style="border-width: 1px; border-right-color: windowtext; border-bottom-color: windowtext; border-left-color: windowtext; border-style: solid; border-top-color: initial; padding: 0px 7px;" height="33"><p style="text-align: center;vertical-align: baseline"><span style="font-size: 19px;font-family: 仿宋_GB2312">合计</span></p></td><td width="165" style="border-width: 1px; border-style: solid; border-top-color: initial; border-left-color: initial; border-bottom-color: windowtext; border-right-color: windowtext; padding: 0px 7px;" height="33"><p style="text-align: center;vertical-align: baseline"><span style="font-size: 19px;font-family: 仿宋_GB2312">5641</span></p></td></tr></tbody></table><p style="font-size: medium;white-space: normal;margin-top: 10px;text-indent: 43px;vertical-align: baseline"><span style="font-size: 21px;font-family: Calibri, sans-serif">&nbsp;</span></p><p style="font-size: medium;white-space: normal;margin-top: 10px;text-indent: 43px;vertical-align: baseline"><span style="font-size: 21px;font-family: Calibri, sans-serif">&nbsp;</span></p><p><br/></p>
+                        </div>
+                        </div>
+                    </div>
+                </div>
+            </div>
+        </div>
+        <script src="/assets/js/footer.js"></script>
+        </div>
+    <!--Main JS-->
+    <script src="/assets/js/ETUI/jquery.min.1.12.4.js"></script>
+    <!--[if lt IE 9]>
+    <script src="/assets/js/ETUI/html5shiv.min.js"></script>
+    <script src="/assets/js/ETUI/respond.min.js"></script>
+    <![endif]-->
+    <script src="/assets/js/ETUI/ETUI3.min.js"></script>
+    <script src="/assets/plugin/owl/owl.carousel.min.js"></script>
+    <!--Custom JS-->
+    <script src="/assets/js/main.js"></script>
+    <script src="/assets/js/language.js"></script>
+    <!-- <script src="/assets/js/Time.js"></script> -->
+    <!--
+  <script src="/assets/js/jhelper_config.js" charset="gb2312"></script>
+<script type="text/javascript" src="https://jhelper.shanghai.gov.cn/publicJS/3100000010.js"></script>
+-->
+<script src="https://wsjkw.sh.gov.cn/wza/jhelper_config.js" charset="gb2312"></script>
+    <script type="text/javascript" src="http://jhelper.shanghai.gov.cn/publicJS/3100000010.js"></script>
+   <!-- <script type="text/javascript" src="http://voice.ewdcloud.com.cn:9292/js/ew_msc.js"></script>-->
+    <script>
+        jQuery(document).ready(function () {
+            Main.init();
+        });
+        jQuery(document).ready(function () {
+	        getToolbarMod();
+        });
+    </script>
+    <script>
+        function currentTime(){
+            var d = new Date(),str = '';
+            str += d.getFullYear()+'年';
+            str  += d.getMonth() + 1+'月';
+            str  += d.getDate()+'日';
+            var a = new Array("日", "一", "二", "三", "四", "五", "六");
+            var week = new Date().getDay();
+            var tody = "星期"+ a[week];
+            str +=' ';
+            str  += tody ;
+            return str;
+
+        }
+        setInterval(function(){$('#time').html(currentTime)},1000);
+    </script>
+</body>
+</html>

diff --git a/README.md b/README.md
@@ -14,6 +14,7 @@ This project will be updated every day before Shanghai reopens. JSON files with 
 
 | Date/Details | New Cases(*)  | Deaths | Confirmed Cases | Asymptomatic Cases | A2C Cases(*) |
 | ---- | ---------- | ---------- | ---------------- | ----------------- | ---------------------------- |
+| 2022-05-10 | 1289 | 7 | 228 | 1259 | 198 |
 | 2022-05-09 | 2858 | 6 | 234 | 2780 | 156 |
 | 2022-05-08 | 3717 | 11 | 322 | 3625 | 230 |
 | 2022-05-07 | 3840 | 8 | 215 | 3760 | 135 |
@@ -76,6 +77,7 @@ This project will be updated every day before Shanghai reopens. JSON files with 
 
 | Date | Total Cases  | Total Deaths | Case‑Fatality-Rate |
 | ---- | ---------- | ---------- | ---------- |
+| 2022-05-10 | 611324 | 535 | 0.0875% |
 | 2022-05-09 | 610035 | 528 | 0.0866% |
 | 2022-05-08 | 607177 | 522 | 0.0860% |
 | 2022-05-07 | 603460 | 511 | 0.0847% |
